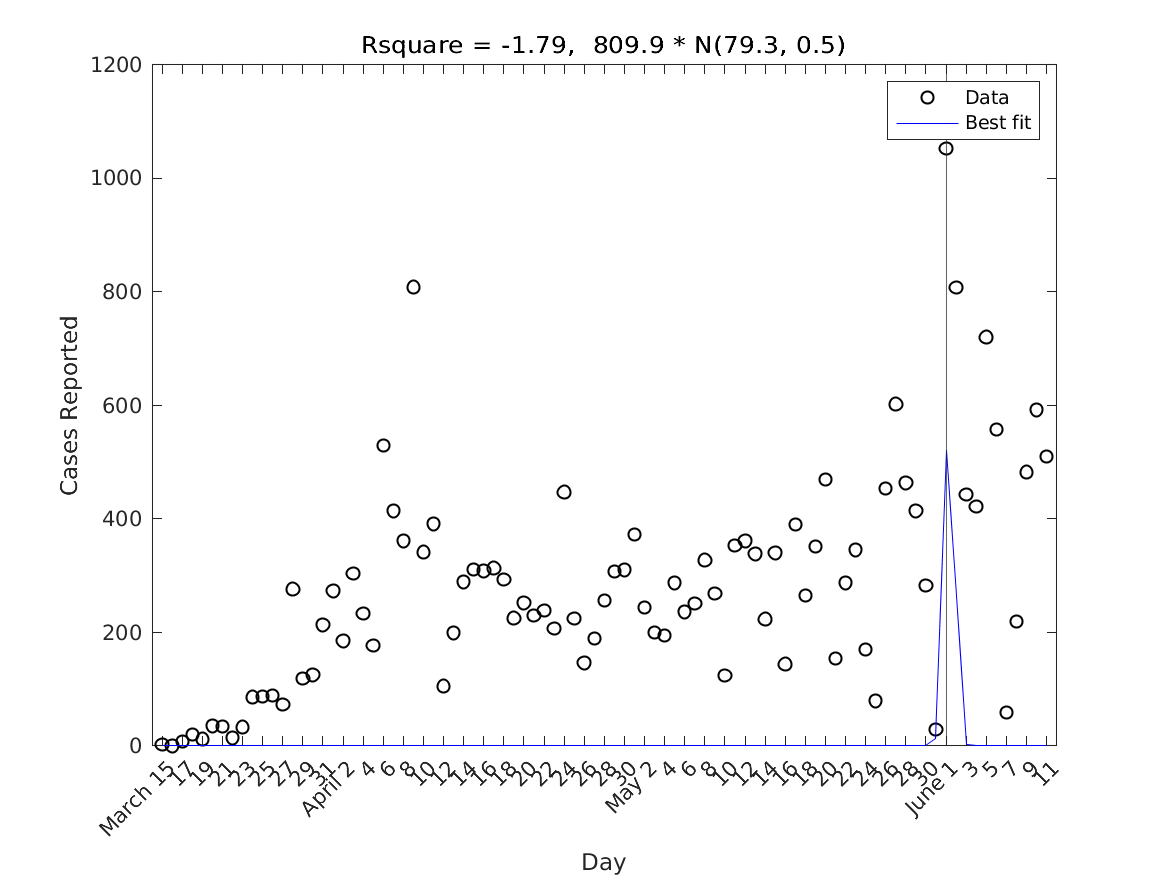
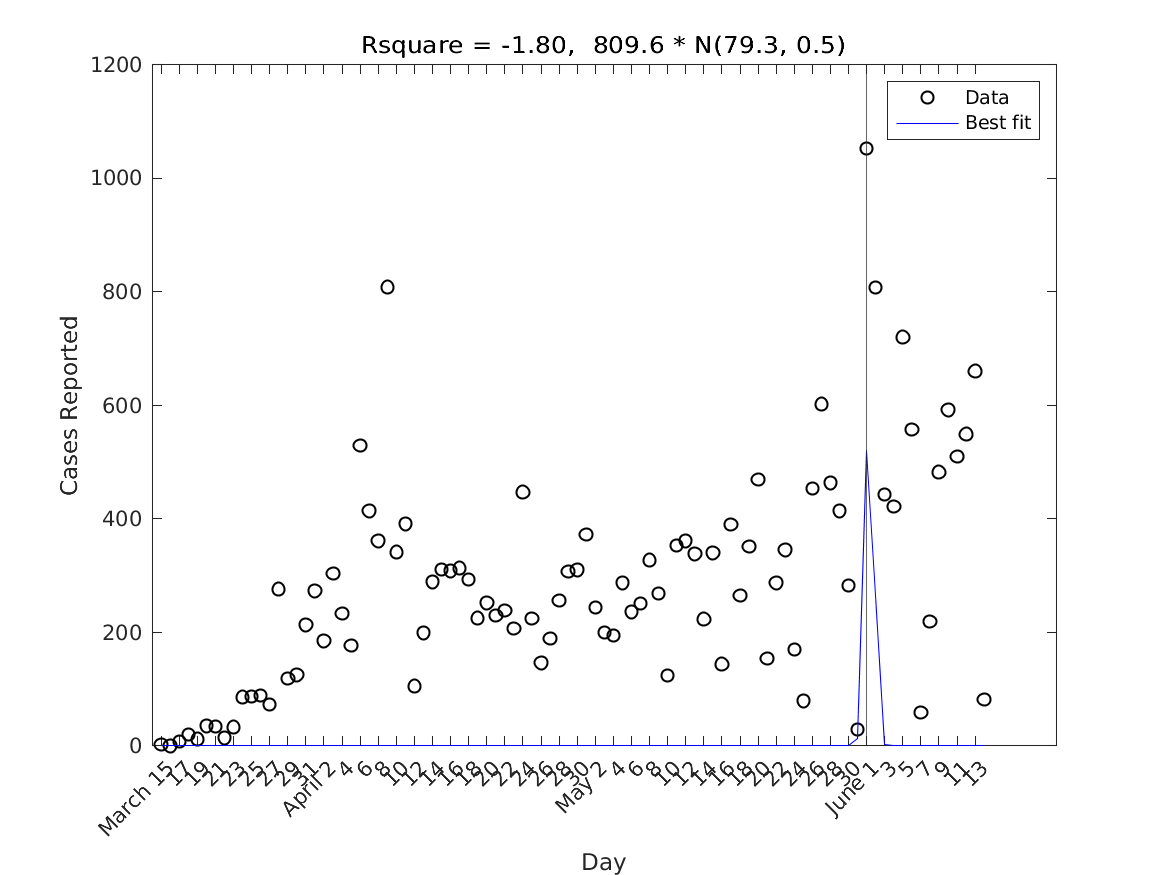
daily update

diff --git a/docs/bokeh/flowers.html b/docs/bokeh/flowers.html
@@ -34,14 +34,14 @@
           
           
             
-              <div class="bk-root" id="2222e632-f8ca-4c55-8ebc-f316867e7c4f" data-root-id="1002"></div>
+              <div class="bk-root" id="48c199f3-7b37-4fa8-acab-b6d70b47c867" data-root-id="1002"></div>
             
           
         
       
       
         <script type="application/json" id="1149">
[2 lines of base64/hex data omitted]
         </script>
         <script type="text/javascript">
           (function() {
@@ -51,7 +51,7 @@
                   function embed_document(root) {
                     
                   var docs_json = document.getElementById('1149').textContent;
-                  var render_items = [{"docid":"e94ea0ed-12cd-4ce5-a3e5-005a249799a6","root_ids":["1002"],"roots":{"1002":"2222e632-f8ca-4c55-8ebc-f316867e7c4f"}}];
+                  var render_items = [{"docid":"0e4f43f9-e745-4942-bd31-2658c7ad7a1b","root_ids":["1002"],"roots":{"1002":"48c199f3-7b37-4fa8-acab-b6d70b47c867"}}];
                   root.Bokeh.embed.embed_items(docs_json, render_items);
                 
                   }

diff --git a/docs/covidcurvefit.html b/docs/covidcurvefit.html
@@ -6,7 +6,7 @@
    <!--
 This HTML was auto-generated from MATLAB code.
 To make changes, update the MATLAB code and republish this document.
-      --><title>Gaussian curve fit to local covid-19 data</title><meta name="generator" content="MATLAB 9.6"><link rel="schema.DC" href="http://purl.org/dc/elements/1.1/"><meta name="DC.date" content="2020-06-12"><meta name="DC.source" content="covidcurvefit.m"><style type="text/css">
+      --><title>Gaussian curve fit to local covid-19 data</title><meta name="generator" content="MATLAB 9.6"><link rel="schema.DC" href="http://purl.org/dc/elements/1.1/"><meta name="DC.date" content="2020-06-15"><meta name="DC.source" content="covidcurvefit.m"><style type="text/css">
 html,body,div,span,applet,object,iframe,h1,h2,h3,h4,h5,h6,p,blockquote,pre,a,abbr,acronym,address,big,cite,code,del,dfn,em,font,img,ins,kbd,q,s,samp,small,strike,strong,sub,sup,tt,var,b,u,i,center,dl,dt,dd,ol,ul,li,fieldset,form,label,legend,table,caption,tbody,tfoot,thead,tr,th,td{margin:0;padding:0;border:0;outline:0;font-size:100%;vertical-align:baseline;background:transparent}body{line-height:1}ol,ul{list-style:none}blockquote,q{quotes:none}blockquote:before,blockquote:after,q:before,q:after{content:'';content:none}:focus{outine:0}ins{text-decoration:none}del{text-decoration:line-through}table{border-collapse:collapse;border-spacing:0}
 
 html { min-height:100%; margin-bottom:1px; }
@@ -81,7 +81,7 @@ ans =
 
   datetime
 
-   12-Jun-2020 08:41:02
+   15-Jun-2020 07:11:52
 
 Warning: Table variable names were modified to make them valid MATLAB
 identifiers. The original names are saved in the VariableDescriptions property. 
